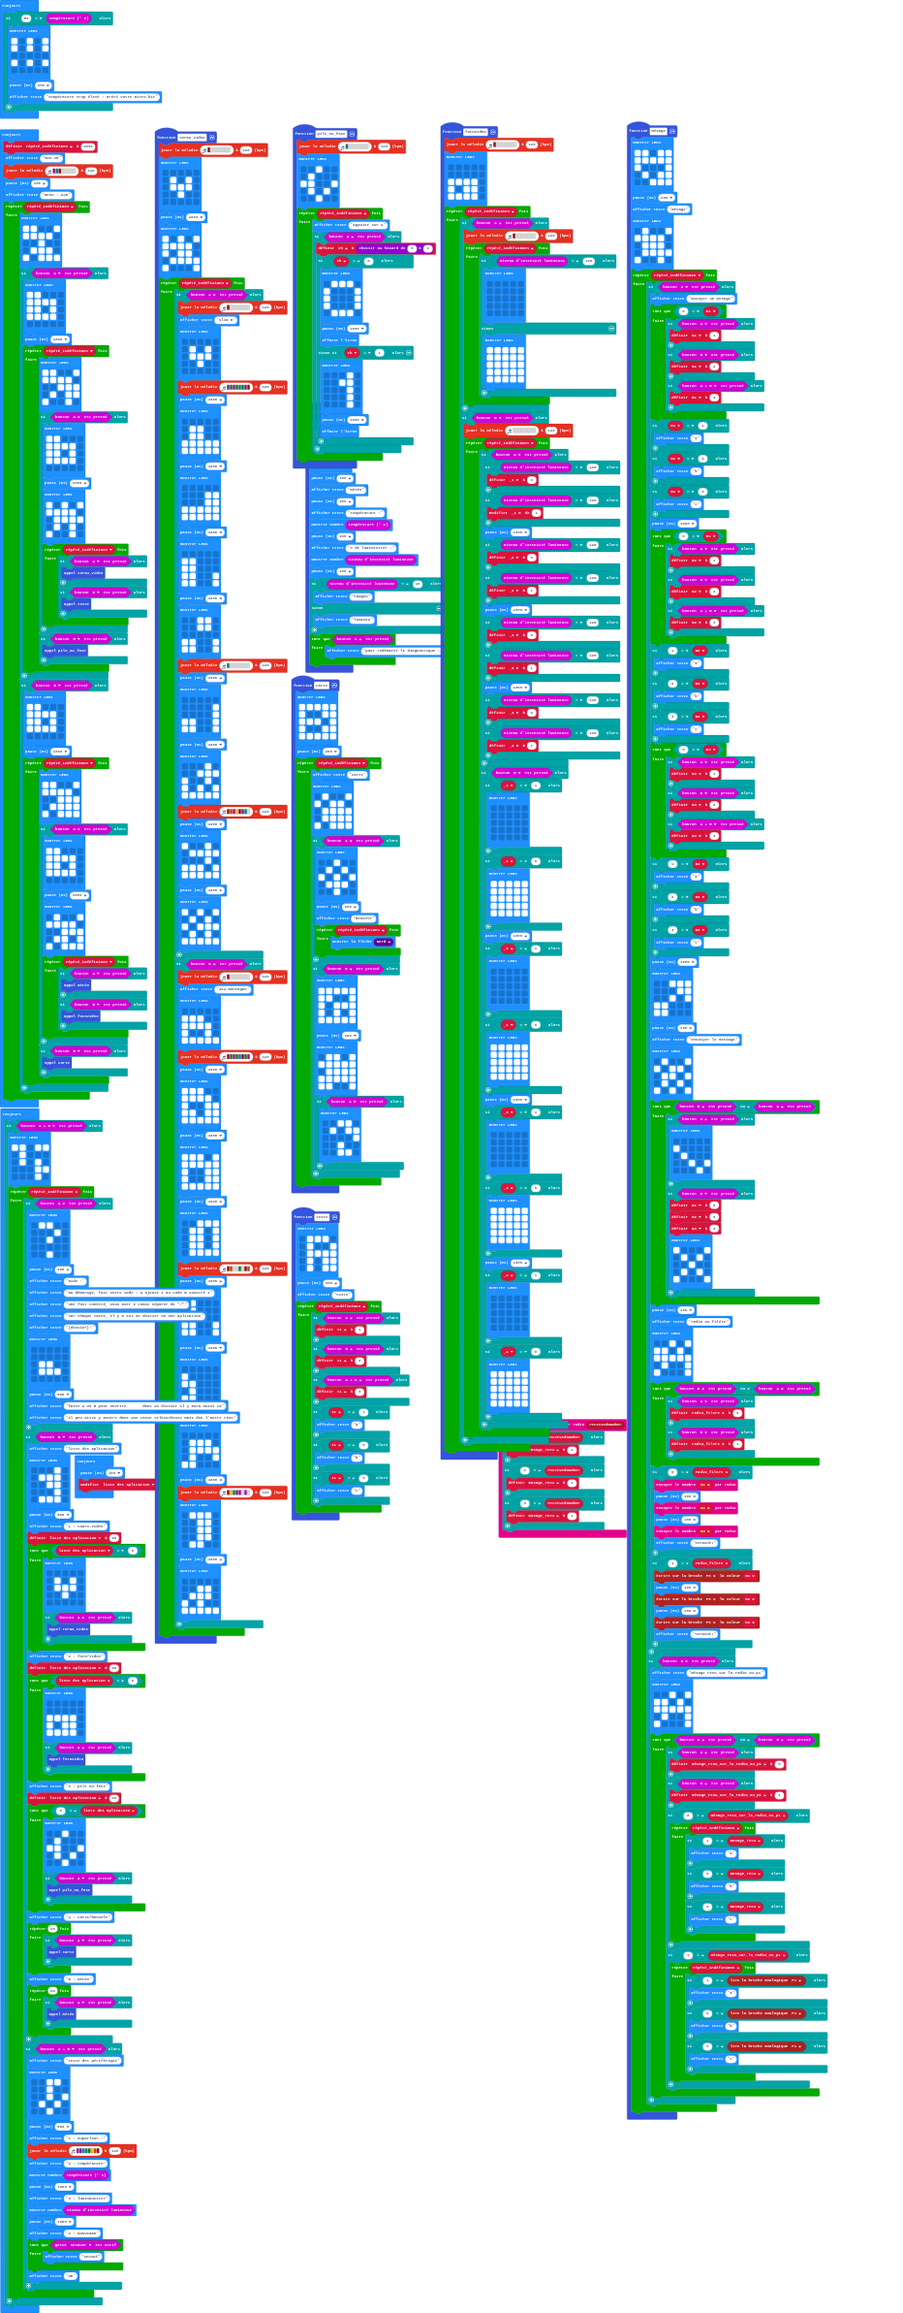
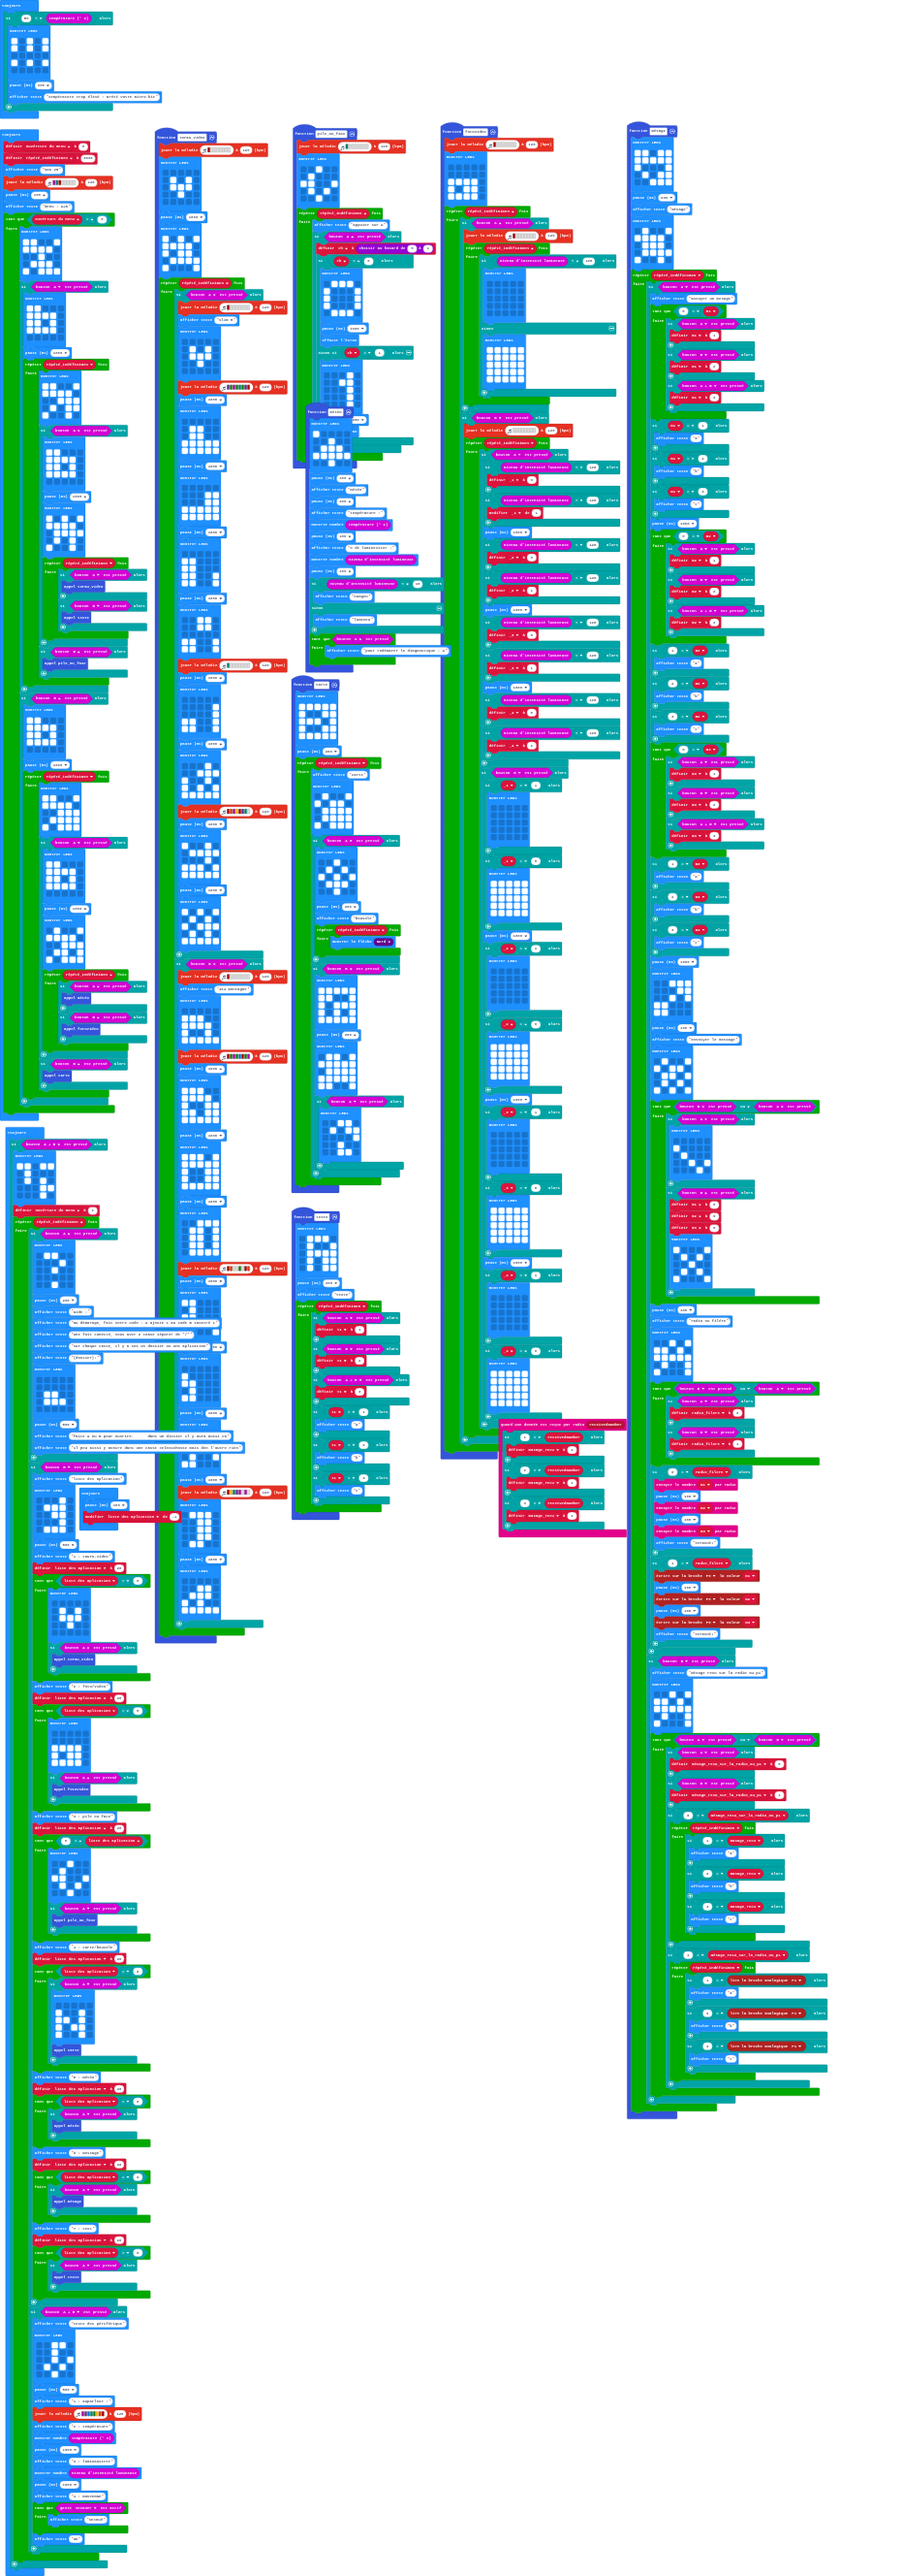
Mise à jour main.blocks, main.ts

diff --git a/main.ts b/main.ts
@@ -11,6 +11,7 @@ let _2 = 0
 let _3 = 0
 let _4 = 0
 let t1 = 0
+let ouvérture_du_menu = 0
 let liste_des_aplication = 0
 function météo () {
     basic.showLeds(`
@@ -713,12 +714,13 @@ basic.forever(function () {
     }
 })
 basic.forever(function () {
+    ouvérture_du_menu = 0
     répété_indéfinimen = 9999
     basic.showString("SOS v5")
     music.playMelody("C F C5 - - - - - ", 120)
     basic.pause(100)
     basic.showString("menu : A+B")
-    for (let index = 0; index < répété_indéfinimen; index++) {
+    while (ouvérture_du_menu == 0) {
         basic.showLeds(`
             # # . . #
             # # # # .
@@ -831,6 +833,7 @@ basic.forever(function () {
             . . . # #
             . . . # .
             `)
+        ouvérture_du_menu = 1
         for (let index = 0; index < répété_indéfinimen; index++) {
             if (input.buttonIsPressed(Button.A)) {
                 basic.showLeds(`
@@ -910,15 +913,38 @@ basic.forever(function () {
                     }
                 }
                 basic.showString("4 : carte/bousole")
-                for (let index = 0; index < 20; index++) {
+                liste_des_aplication = 20
+                while (liste_des_aplication == 0) {
                     if (input.buttonIsPressed(Button.A)) {
+                        basic.showLeds(`
+                            . . . . .
+                            # . . # .
+                            # # . # .
+                            # . # # .
+                            # . . # .
+                            `)
                         carte()
                     }
                 }
                 basic.showString("5 : météo")
-                for (let index = 0; index < 20; index++) {
+                liste_des_aplication = 20
+                while (liste_des_aplication == 0) {
                     if (input.buttonIsPressed(Button.A)) {
                         météo()
+                    }
+                }
+                basic.showString("6 : message")
+                liste_des_aplication = 20
+                while (liste_des_aplication == 0) {
+                    if (input.buttonIsPressed(Button.A)) {
+                        mésage()
+                    }
+                }
+                basic.showString("7 : text")
+                liste_des_aplication = 20
+                while (liste_des_aplication == 0) {
+                    if (input.buttonIsPressed(Button.A)) {
+                        texte()
                     }
                 }
             }
